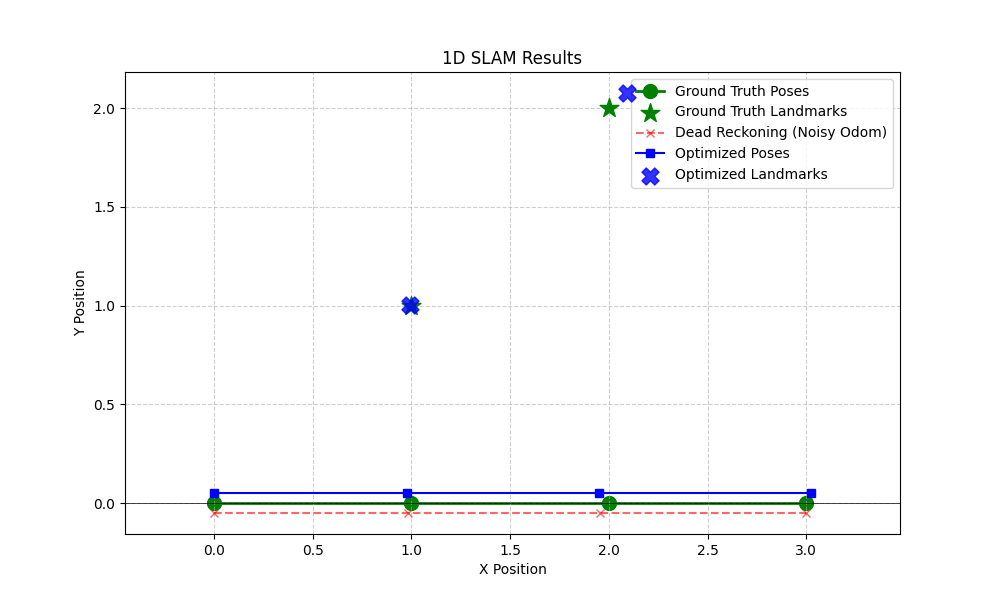
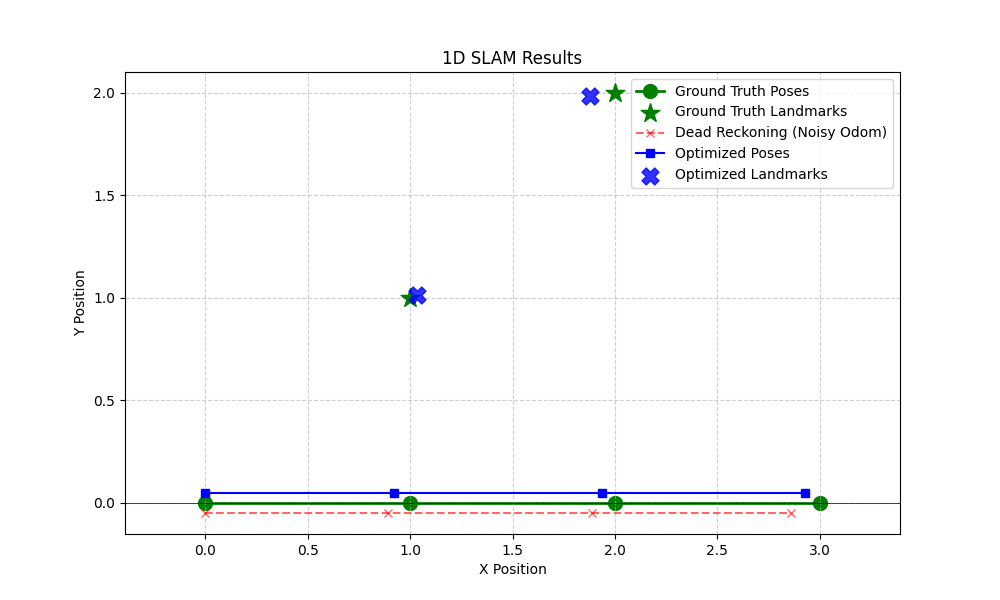
Calculate true positions

diff --git a/slam_core/frontend_2d.py b/slam_core/frontend_2d.py
@@ -1,4 +1,5 @@
 import math
+import numpy as np
 import random
 from typing import List, Tuple
 
@@ -42,21 +43,46 @@ class SLAM2DFrontend:
             self.true_poses = [self.initial_pose]
             x, y = self.initial_pose[0]
             angle = self.initial_pose[1]
+            self.true_poses.append(self.initial_pose)
             ### TODO ###
-            ...
+            SQUARE_SIDE_LEN = 10
+            directions = [[1, 0, 0], # x multiplier, y multiplier, angle
+                          [0, 1, 90],
+                          [-1, 0, 180],
+                          [0, -1, 270]]
+            dir_i = 0
+            for step in range(self.num_steps):
+                if (step + 1) % SQUARE_SIDE_LEN == 0: # turn
+                    dir_i = (dir_i + 1) % 4
+                x = directions[dir_i][0] * x
+                y = directions[dir_i][1] * y
+                angle = directions[dir_i][2]
+                self.true_poses.append(Pose2D((x, y), angle))
+
             ### END TODO ###
         elif self.trajectory_shape == "circle":
             x, y = self.initial_pose[0]
             angle = self.initial_pose[1]
+            self.true_poses.append(self.initial_pose)
             ### TODO ###
-            ...
+            TURN_ANGLE = 15
+            for i in range(self.num_steps):
+                x = x + np.cos(angle)
+                y = y + np.sin(angle)
+                self.true_poses.append(Pose2D((x, y), angle))
+                angle += TURN_ANGLE
+                angle % 360
             ### END TODO ###
         elif self.trajectory_shape == "line":
             self.true_poses = [self.initial_pose]
             x, y = self.initial_pose[0]
             angle = self.initial_pose[1]
+            self.true_poses = [self.initial_pose]
             ### TODO ###
-            ...
+            for _ in range(self.num_steps):
+                x = x + np.cos(angle)
+                y = y + np.sin(angle)
+                self.true_poses.append(Pose2D((x, y), angle))
             ### END TODO ###
 
     def generate_measurements(self) -> None:

diff --git a/slam_core/backend_2d.py b/slam_core/backend_2d.py
@@ -30,11 +30,11 @@ class SLAM2DBackend:
         sensor_noise_std: float = 1.0,
     ) -> optimize.OptimizeResult:
         # Prepare the initial flat parameter vector
-        # We optimize over poses and landmarks simuulatenously, so they have to be packed into a single, flat numpy array
+        # We optimize over poses and landmarks simultaneously, so they have to be packed into a single, flat numpy array
         # Parameters: [pose_0, pose_1, ..., pose_N, lm1_x, lm1_y, lm2_x, lm2_y, ...]
         ### TODO ###
-        num_poses = ...
-        initial_params = ...
+        num_poses = len(initial_poses_guess)
+        initial_params = np.array(initial_poses_guess) + np.array(initial_landmarks_guess)
         ### END TODO ###
 
         # Optimize
@@ -69,8 +69,8 @@ class SLAM2DBackend:
         """
         # Unpack parameters
         ### TODO ###
-        poses = ...
-        landmark_coords = ...
+        poses = params[:num_poses]
+        landmark_coords = params[num_poses:]
         ### END TODO ###
 
         # Reconstruct landmarks list [(x,y), ...]
@@ -87,8 +87,16 @@ class SLAM2DBackend:
         # 1. Movement Penalty (Odometry Error)
         # For each odometry measurement, calculate the expected movement based on the current and next pose, and compare to the measured movement.
         ### TODO ###
+        calc_movements = []
+        for i in range(len(poses) - 1):
+            calc_movements.append(np.linalg.norm(poses[i + 1] - poses[i]))
+
+        diff_poses = np.array(calc_movements) - np.array(measured_movements)
+        # movement_penalty = np.sum(diff_poses**2) * odom_weight
+
         movement_penalty = 0.0
         for i in range(len(poses) - 1):
+
             movement_penalty += ...
 
         movement_penalty *= odom_weight
